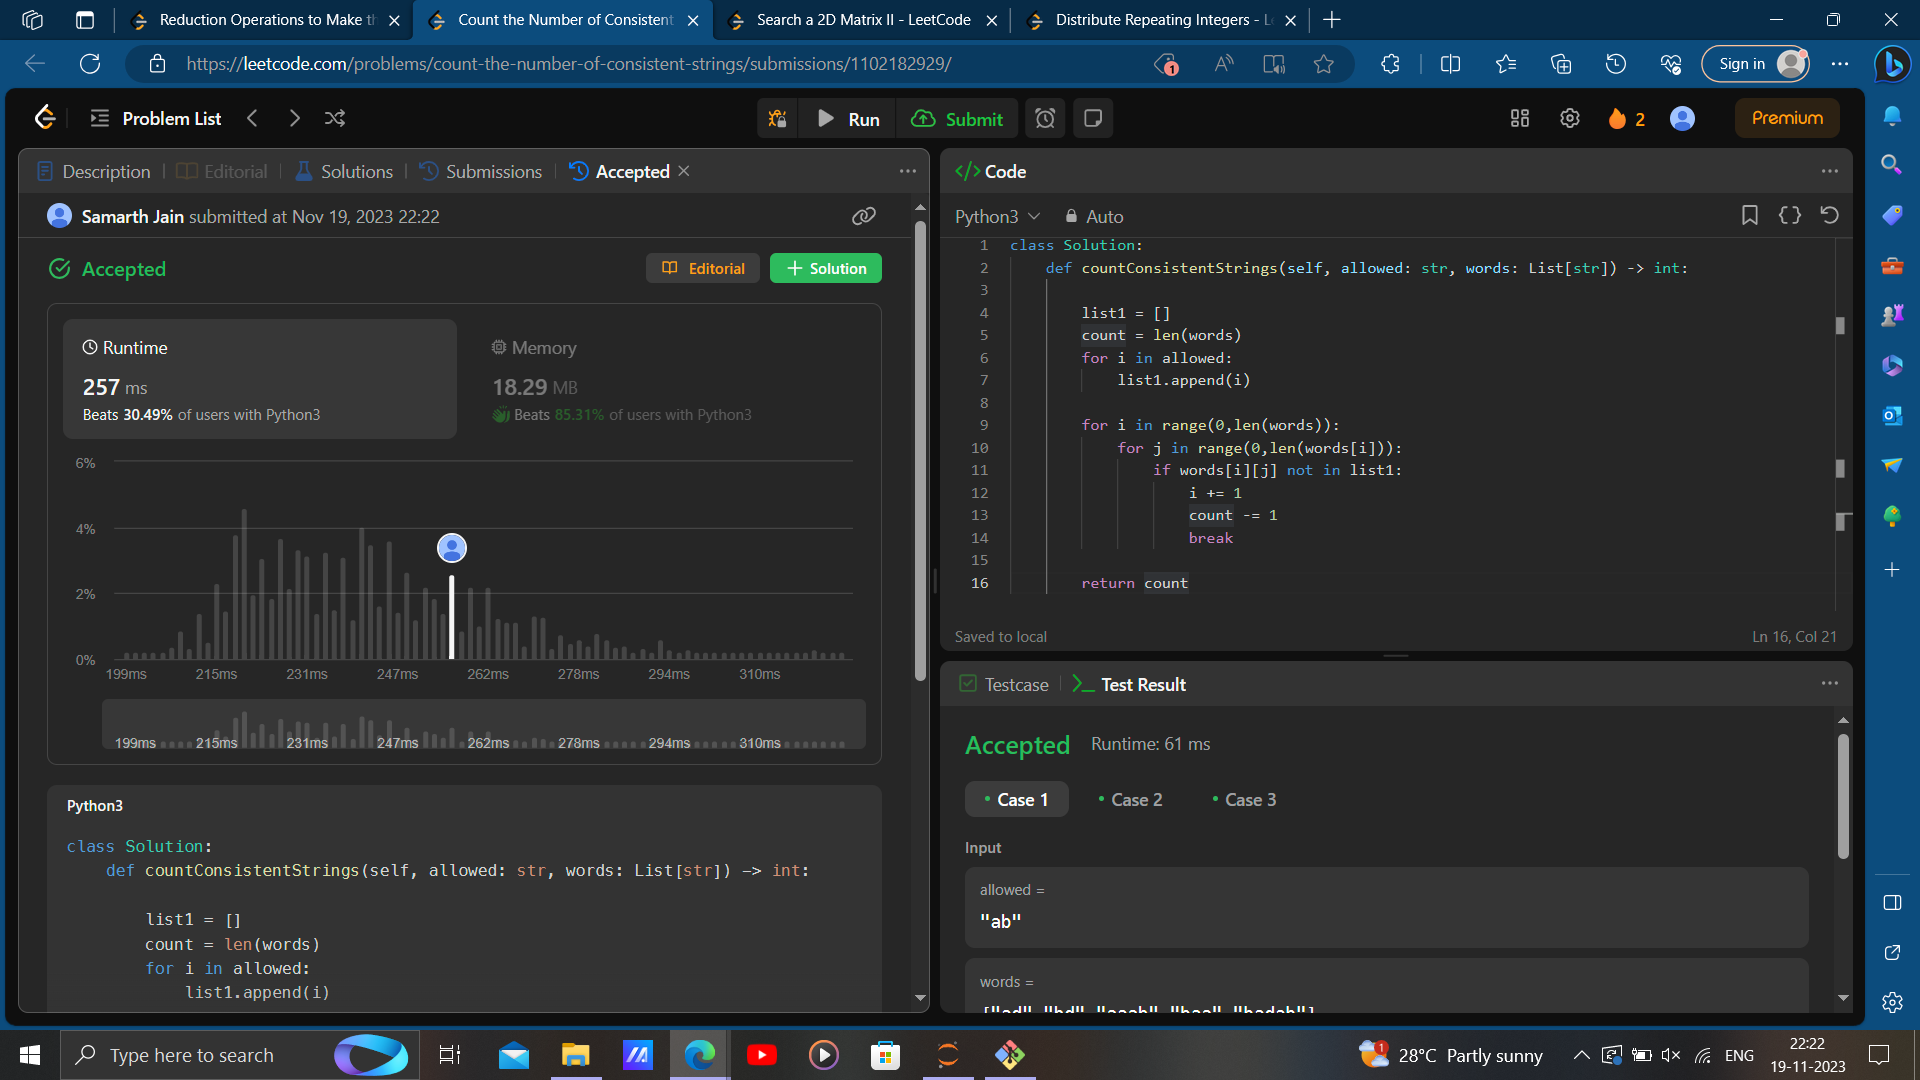
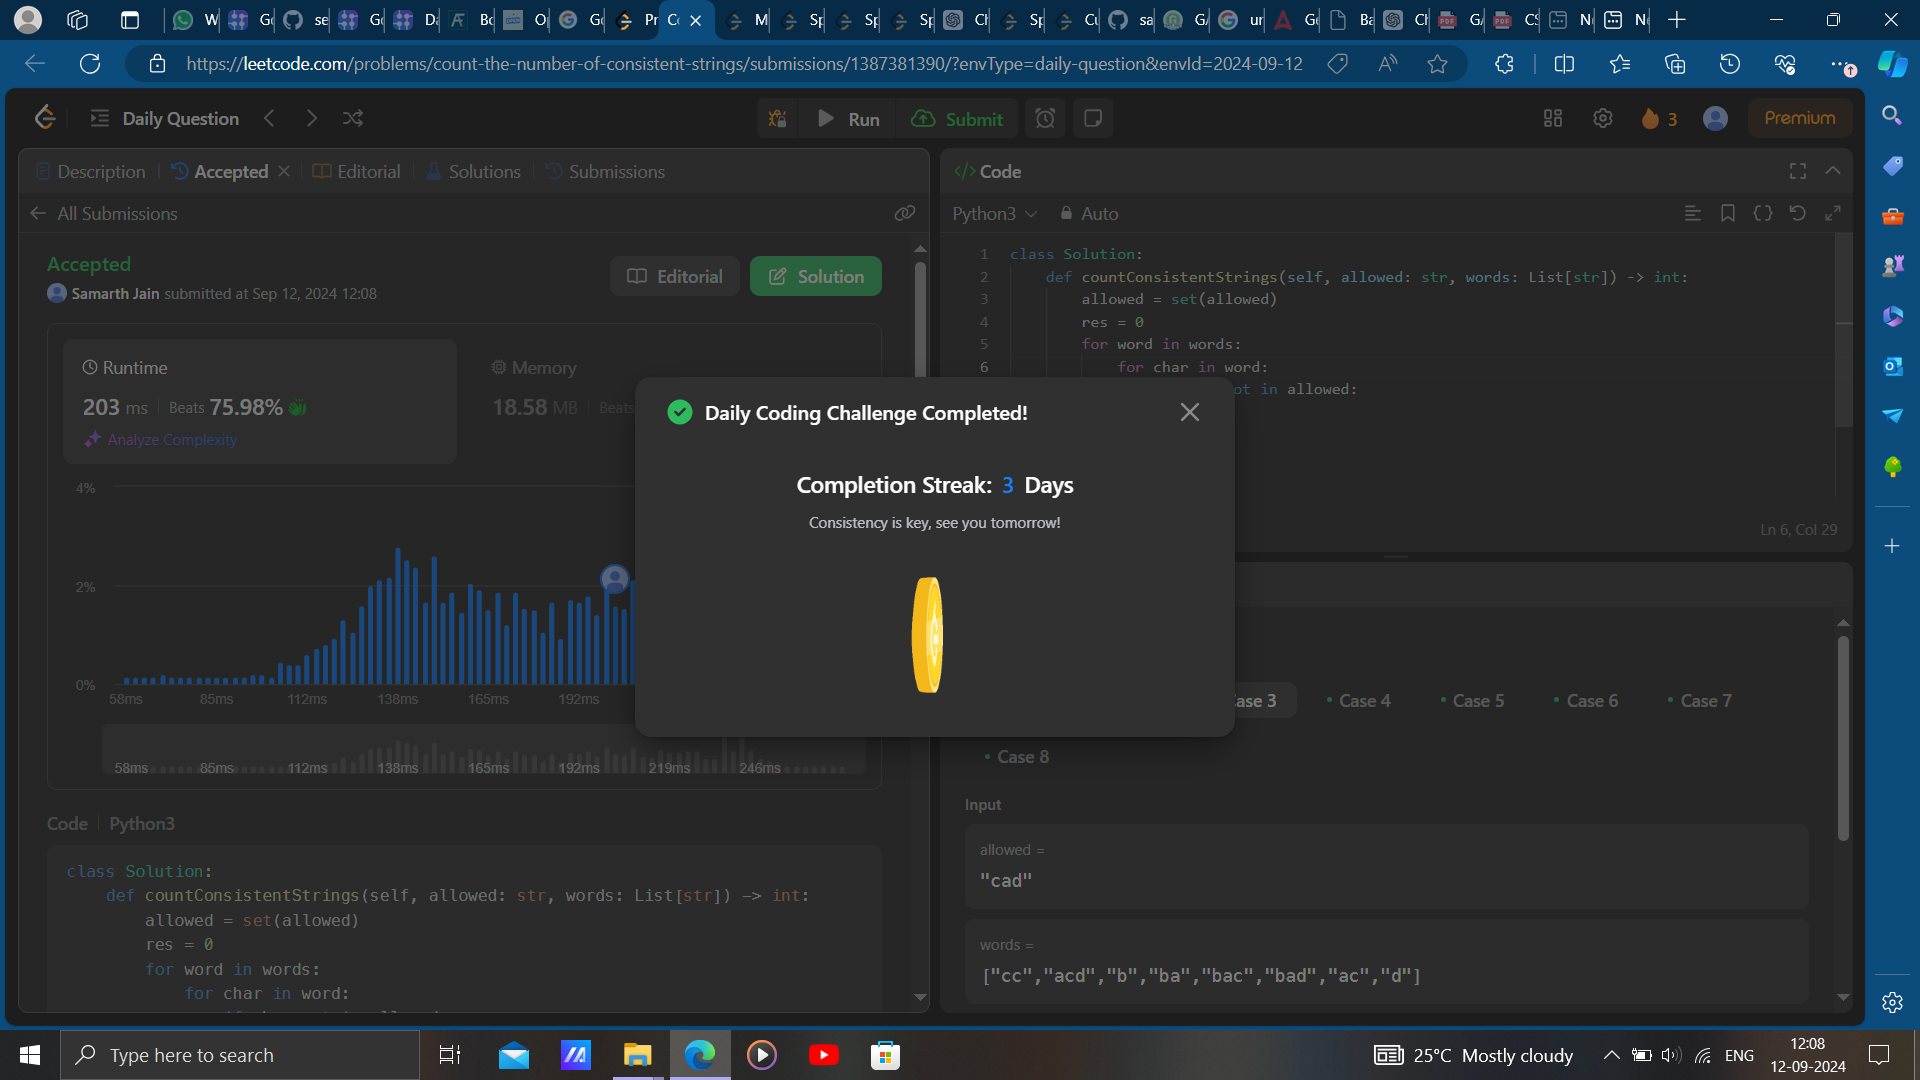
Leetcode-Solutions

diff --git a/Easy/[1684] Count the Number of Consistent Strings/[1684] Count the Number of Consistent Strings.py b/Easy/[1684] Count the Number of Consistent Strings/[1684] Count the Number of Consistent Strings.py
@@ -1,22 +1,17 @@
 """
 Accepted
 1684 [Easy]
-Runtime: 257 ms, faster than 30.49% of Python3 online submissions for Count the Number of Consistent Strings.
-Memory Usage: 18.29 MB, less than 85.31% of Python3 online submissions for Count the Number of Consistent Strings.
+Runtime: 203 ms, faster than 75.98% of Python3 online submissions for Count the Number of Consistent Strings.
+Memory Usage: 18.58 MB, less than 40.73% of Python3 online submissions for Count the Number of Consistent Strings.
 """
 class Solution:
     def countConsistentStrings(self, allowed: str, words: List[str]) -> int:
-        
-        list1 = []
-        count = len(words)
-        for i in allowed:
-            list1.append(i)
-
-        for i in range(0,len(words)):
-            for j in range(0,len(words[i])):
-                if words[i][j] not in list1:
-                    i += 1
-                    count -= 1
+        allowed = set(allowed)
+        res = 0
+        for word in words:
+            for char in word:
+                if char not in allowed:
                     break
-            
-        return count
+            else:
+                res += 1
+        return res
